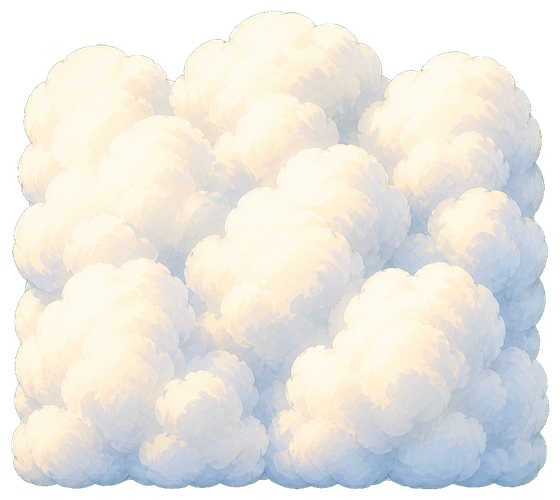
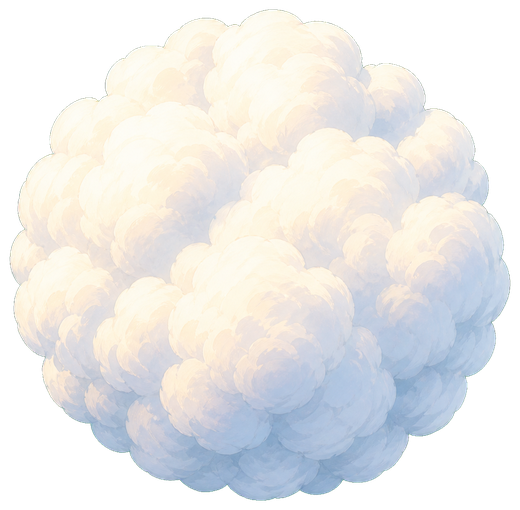
Add randomized cloud stages

diff --git a/script.js b/script.js
@@ -12,16 +12,14 @@ const resultPanel = document.querySelector("#resultPanel");
 const resultResetButton = document.querySelector("#resultResetButton");
 const stageToast = document.querySelector("#stageToast");
 
-const stageMap = [
-  "   ######    ",
-  "  ##....###  ",
-  " ##..##..G#  ",
-  " #...#..###  ",
-  " #B..#....#  ",
-  " ###..##..#  ",
-  "   #.....##  ",
-  "   ######    "
-];
+const rowCount = 8;
+const colCount = 13;
+const playableBounds = {
+  minCol: 1,
+  maxCol: colCount - 2,
+  minRow: 1,
+  maxRow: rowCount - 2
+};
 
 const featureByCell = {
   B: "start",
@@ -64,8 +62,6 @@ const directionLabels = {
   right: "右"
 };
 
-const rowCount = stageMap.length;
-const colCount = Math.max(...stageMap.map((row) => row.length));
 const boardFrame = {
   left: 10.4,
   top: 4.4,
@@ -96,6 +92,116 @@ const addBoardItem = (className, col, row, innerHTML = "") => {
 };
 
 const assetMarkup = (src) => `<img class="asset-img" src="${src}" alt="" />`;
+
+const randomInt = (min, max) => Math.floor(Math.random() * (max - min + 1)) + min;
+const randomChoice = (items) => items[Math.floor(Math.random() * items.length)];
+
+const inPlayableBounds = (col, row) =>
+  col >= playableBounds.minCol &&
+  col <= playableBounds.maxCol &&
+  row >= playableBounds.minRow &&
+  row <= playableBounds.maxRow;
+
+const createStageGrid = () => {
+  const grid = Array.from({ length: rowCount }, () => Array.from({ length: colCount }, () => " "));
+  for (let row = playableBounds.minRow; row <= playableBounds.maxRow; row += 1) {
+    for (let col = playableBounds.minCol; col <= playableBounds.maxCol; col += 1) {
+      grid[row][col] = "#";
+    }
+  }
+  return grid;
+};
+
+const shuffleDirections = () =>
+  [
+    { x: 1, y: 0 },
+    { x: -1, y: 0 },
+    { x: 0, y: 1 },
+    { x: 0, y: -1 }
+  ].sort(() => Math.random() - 0.5);
+
+const generateStageMap = () => {
+  const grid = createStageGrid();
+  const carvedCells = [];
+  const carvedKeys = new Set();
+  const start = {
+    col: randomInt(playableBounds.minCol, playableBounds.minCol + 1),
+    row: randomInt(playableBounds.minRow + 1, playableBounds.maxRow - 1)
+  };
+  const goal = {
+    col: randomInt(playableBounds.maxCol - 1, playableBounds.maxCol),
+    row: randomInt(playableBounds.minRow, playableBounds.maxRow)
+  };
+
+  const carve = ({ col, row }) => {
+    if (!inPlayableBounds(col, row)) return false;
+    const key = `${col}:${row}`;
+    if (!carvedKeys.has(key)) {
+      carvedKeys.add(key);
+      carvedCells.push({ col, row });
+    }
+    grid[row][col] = ".";
+    return true;
+  };
+
+  let current = { ...start };
+  carve(current);
+
+  for (let guard = 0; guard < 140 && (current.col !== goal.col || current.row !== goal.row); guard += 1) {
+    const preferred = [];
+    if (current.col < goal.col) preferred.push({ x: 1, y: 0 }, { x: 1, y: 0 }, { x: 1, y: 0 });
+    if (current.col > goal.col) preferred.push({ x: -1, y: 0 }, { x: -1, y: 0 });
+    if (current.row < goal.row) preferred.push({ x: 0, y: 1 }, { x: 0, y: 1 });
+    if (current.row > goal.row) preferred.push({ x: 0, y: -1 }, { x: 0, y: -1 });
+
+    const possible = shuffleDirections().filter((direction) =>
+      inPlayableBounds(current.col + direction.x, current.row + direction.y)
+    );
+    const choices = Math.random() < 0.72 && preferred.length > 0 ? preferred : possible;
+    const step = randomChoice(choices.filter((direction) =>
+      inPlayableBounds(current.col + direction.x, current.row + direction.y)
+    ));
+
+    if (!step) break;
+    current = { col: current.col + step.x, row: current.row + step.y };
+    carve(current);
+  }
+
+  while (current.col !== goal.col) {
+    current = { col: current.col + Math.sign(goal.col - current.col), row: current.row };
+    carve(current);
+  }
+  while (current.row !== goal.row) {
+    current = { col: current.col, row: current.row + Math.sign(goal.row - current.row) };
+    carve(current);
+  }
+
+  const targetFloorCount = randomInt(31, 40);
+  let growthGuard = 0;
+  while (carvedCells.length < targetFloorCount && growthGuard < 220) {
+    growthGuard += 1;
+    const seed = randomChoice(carvedCells);
+    const options = shuffleDirections()
+      .map((direction) => ({ col: seed.col + direction.x, row: seed.row + direction.y }))
+      .filter(({ col, row }) => inPlayableBounds(col, row) && grid[row][col] === "#");
+    if (options.length > 0) carve(randomChoice(options));
+  }
+
+  [
+    { col: start.col + 1, row: start.row },
+    { col: start.col, row: start.row - 1 },
+    { col: start.col, row: start.row + 1 },
+    { col: goal.col - 1, row: goal.row },
+    { col: goal.col, row: goal.row - 1 },
+    { col: goal.col, row: goal.row + 1 }
+  ].forEach(carve);
+
+  grid[start.row][start.col] = "B";
+  grid[goal.row][goal.col] = "G";
+  return grid.map((row) => row.join(""));
+};
+
+let stageMap = generateStageMap();
 
 const findCell = (target) => {
   for (let row = 0; row < rowCount; row += 1) {
@@ -137,8 +243,8 @@ const canOccupy = (col, row) => {
   });
 };
 
-const startCell = findCell("B");
-const goalCell = findCell("G");
+let startCell = findCell("B");
+let goalCell = findCell("G");
 let playerPosition = { col: startCell.col, row: startCell.row };
 let stepCount = 0;
 let toastTimer;
@@ -158,33 +264,44 @@ const inputDeadzone = 0.08;
 const maxCellsPerSecond = 3.25;
 const gyroTiltDegrees = 24;
 
-stageMap.forEach((rowString, row) => {
-  [...rowString].forEach((cell, col) => {
-    if (cell === " ") return;
+const renderStage = () => {
+  boardLayer.replaceChildren();
+  stageMap.forEach((rowString, row) => {
+    [...rowString].forEach((cell, col) => {
+      if (cell === " ") return;
 
-    if (cell !== "#") {
-      const type =
-        featureByCell[cell] === "start"
-          ? "start"
-          : featureByCell[cell] === "goal"
-            ? "goal"
-            : "path";
-      addBoardItem(`floor-tile ${type}`, col, row);
-    }
+      if (cell !== "#") {
+        const type =
+          featureByCell[cell] === "start"
+            ? "start"
+            : featureByCell[cell] === "goal"
+              ? "goal"
+              : "path";
+        addBoardItem(`floor-tile ${type}`, col, row);
+      }
 
-    if (cell === "#") {
-      addBoardItem(`cloud-wall ${(col + row) % 4 === 0 ? "soft" : ""} has-image`, col, row, assetMarkup(assetPaths.cloud));
-    }
+      if (cell === "#") {
+        addBoardItem(`cloud-wall ${(col + row) % 4 === 0 ? "soft" : ""} has-image`, col, row, assetMarkup(assetPaths.cloud));
+      }
 
-    if (cell === "B") {
-      addBoardItem("start-pad has-image", col, row, assetMarkup(assetPaths.startPad));
-    }
+      if (cell === "B") {
+        addBoardItem("start-pad has-image", col, row, assetMarkup(assetPaths.startPad));
+      }
 
-    if (cell === "G") {
-      addBoardItem("goal-pad has-image", col, row, assetMarkup(assetPaths.goalPad));
-    }
+      if (cell === "G") {
+        addBoardItem("goal-pad has-image", col, row, assetMarkup(assetPaths.goalPad));
+      }
+    });
   });
-});
+};
+
+const rebuildStage = () => {
+  stageMap = generateStageMap();
+  startCell = findCell("B");
+  goalCell = findCell("G");
+  playerPosition = { col: startCell.col, row: startCell.row };
+  renderStage();
+};
 
 const showToast = (message) => {
   if (!stageToast) return;
@@ -376,7 +493,7 @@ const resetStage = () => {
   pressedKeys.clear();
   keyHoldTimers.forEach((timer) => window.clearTimeout(timer));
   keyHoldTimers.clear();
-  playerPosition = { col: startCell.col, row: startCell.row };
+  rebuildStage();
   stepCount = 0;
   updatePlayer();
   pcBird?.classList.remove("is-goal", "is-blocked", "is-moving");
@@ -531,6 +648,7 @@ window.addEventListener("orientationchange", resetGyroBaseline);
 window.screen?.orientation?.addEventListener?.("change", resetGyroBaseline);
 window.addEventListener("pointerdown", focusGameInput);
 
+renderStage();
 updatePlayer();
 setTilt(0, 0);
 focusGameInput();

diff --git a/styles.css b/styles.css
@@ -509,8 +509,8 @@ button {
 }
 
 .cloud-wall {
-  width: clamp(4.15rem, 5.25vw, 7.7rem);
-  height: clamp(3.7rem, 4.7vw, 6.9rem);
+  width: clamp(4.25rem, 5.35vw, 7.85rem);
+  height: clamp(4.25rem, 5.35vw, 7.85rem);
   transform: translate(-50%, -50%);
   filter:
     drop-shadow(0 0.32rem 0.24rem rgba(84, 102, 104, 0.13))

diff --git a/index.html b/index.html
@@ -4,6 +4,7 @@
     <meta charset="utf-8" />
     <meta name="viewport" content="width=device-width, initial-scale=1" />
     <title>風のつなぐ道 | In-game Mock</title>
+    <link rel="icon" href="data:," />
     <link rel="stylesheet" href="./styles.css" />
   </head>
   <body>